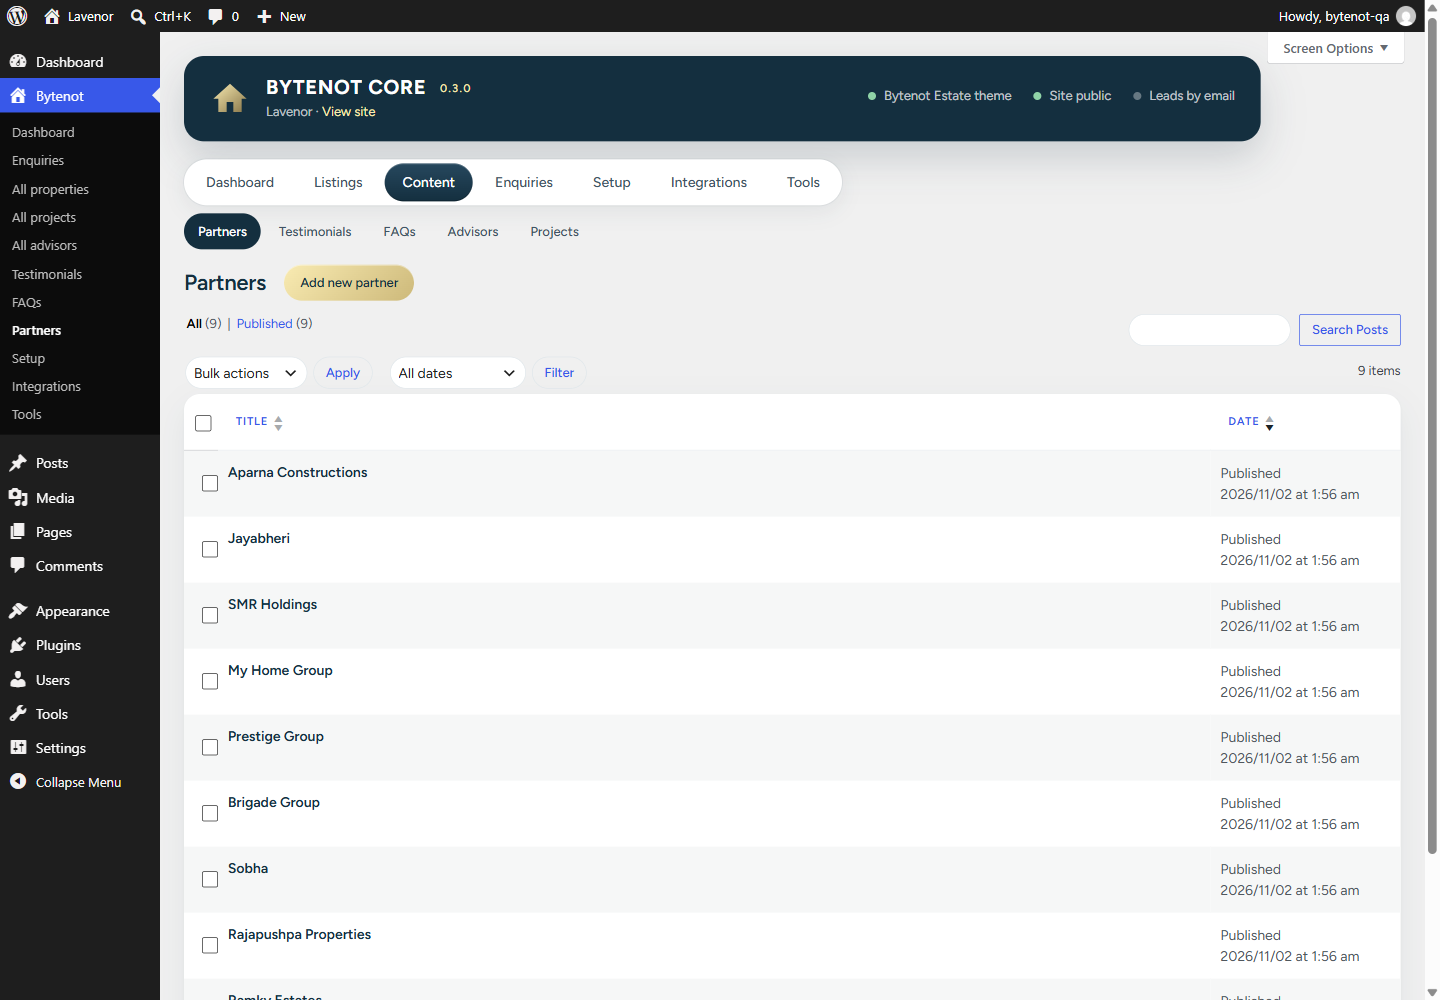
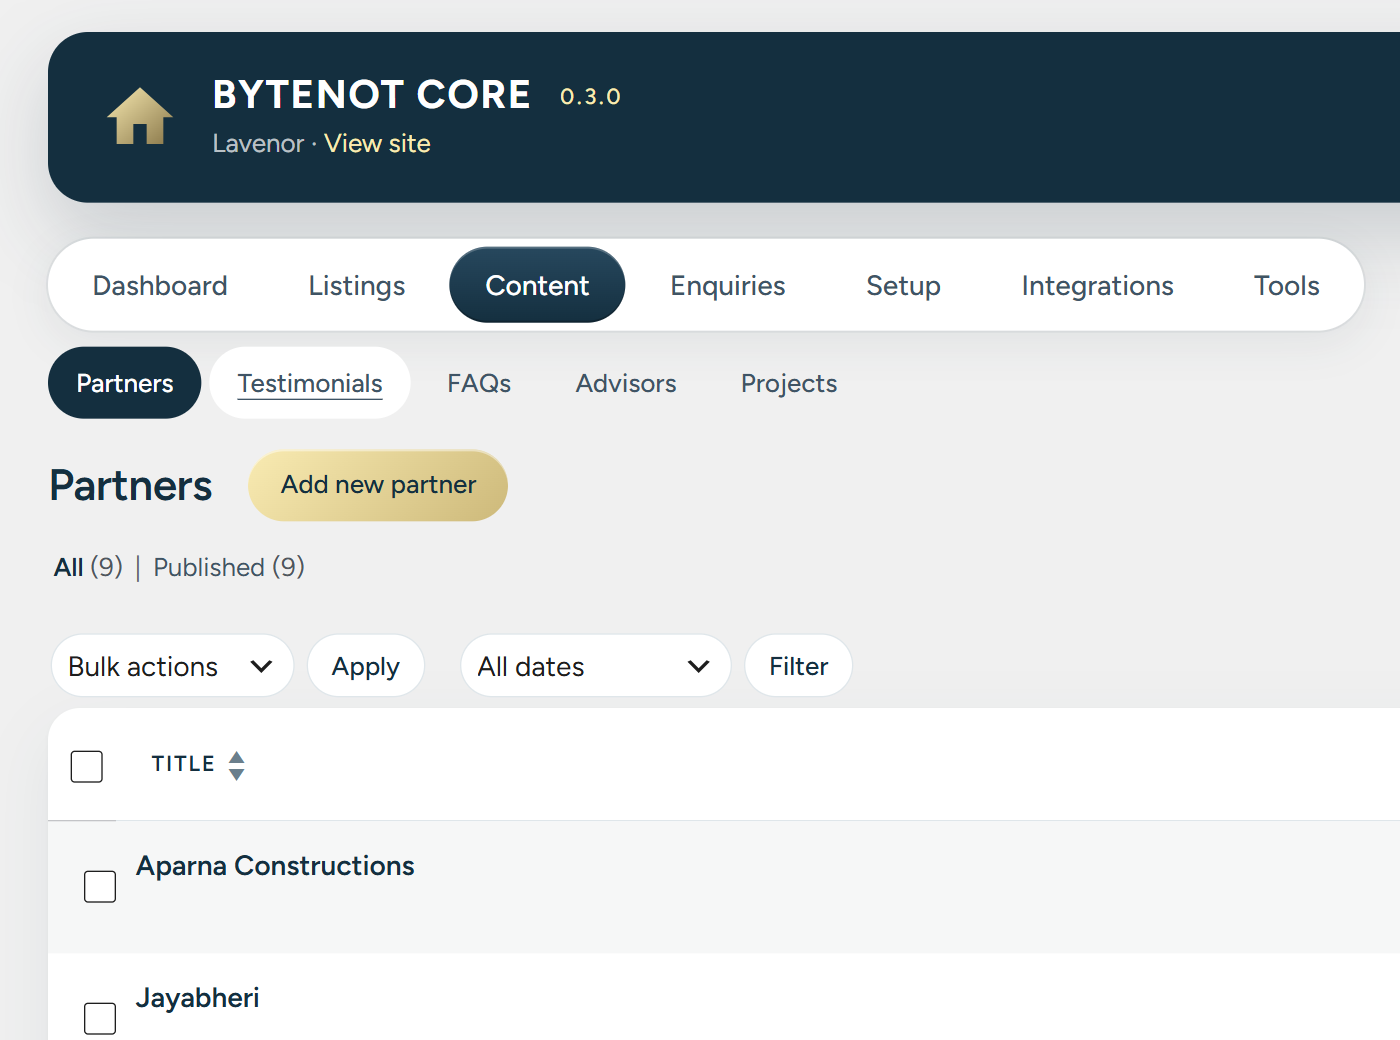
Bytenot admin: no focus ring on mouse clicks, navy instead of WordPress blue inside the plugin's screens

diff --git a/plugin/bytenot-core/assets/admin/admin.css b/plugin/bytenot-core/assets/admin/admin.css
@@ -217,3 +217,27 @@
 .bn-list-screen .tablenav { font-family: "Figtree", system-ui, sans-serif; }
 .bn-list-screen .tablenav .button, .bn-list-screen .tablenav select { border-radius: 999px; border-color: #dfe6ea; font-family: inherit; }
 .bn-list-screen .search-box input[type="search"] { border-radius: 999px; border-color: #dfe6ea; font-family: inherit; }
+
+/* ---------- no WordPress blue inside the plugin's screens ---------- */
+/* focus: nothing on mouse clicks, a navy ring for keyboard users */
+.bn a:focus, .bn button:focus, .bn input:focus, .bn select:focus, .bn textarea:focus,
+.bn-list-screen .wrap a:focus, .bn-list-screen .wrap button:focus, .bn-list-screen .wrap input:focus, .bn-list-screen .wrap select:focus { outline: none; box-shadow: none; }
+.bn a:focus-visible, .bn button:focus-visible, .bn-list-screen .wrap a:focus-visible, .bn-list-screen .wrap button:focus-visible { outline: 2px solid var(--navy, #142f3f); outline-offset: 2px; }
+.bn .bn-input:focus-visible, .bn-list-screen .wrap input:focus-visible, .bn-list-screen .wrap select:focus-visible { border-color: #142f3f; box-shadow: 0 0 0 3px rgba(20, 47, 63, .1); }
+/* links, buttons, checkboxes, sort arrows on the list screens */
+.bn-list-screen .wrap a { color: #142f3f; }
+.bn-list-screen .wrap .subsubsub a { color: #3f5465; }
+.bn-list-screen .wrap .subsubsub .current { color: #142f3f; font-weight: 600; }
+.bn-list-screen .wrap .row-actions a { color: #6b7f8c; }
+.bn-list-screen .wrap .row-actions a:hover { color: #142f3f; }
+.bn-list-screen .wrap .row-actions .trash a, .bn-list-screen .wrap .row-actions .delete a { color: #8f1f27; }
+.bn-list-screen .wrap .button, .bn-list-screen .wrap .button-secondary { color: #142f3f; border-color: #dfe6ea; background: #fff; box-shadow: none; }
+.bn-list-screen .wrap .button:hover { border-color: #142f3f; color: #142f3f; background: #fff; }
+.bn-list-screen .wrap .button-primary, .bn-list-screen .wrap .button-primary:hover { background: #142f3f; border-color: #142f3f; color: #fff; }
+.bn-list-screen .wrap input[type="checkbox"], .bn input[type="checkbox"], .bn input[type="radio"] { accent-color: #142f3f; }
+.bn-list-screen .wrap input[type="checkbox"]:checked::before { filter: grayscale(1) brightness(.35); }
+.bn-list-screen .wp-list-table thead .sorted a, .bn-list-screen .wp-list-table thead .sortable a, .bn-list-screen .wp-list-table thead a:hover { color: #142f3f; }
+.bn-list-screen .wp-list-table .sorting-indicators::before, .bn-list-screen .wp-list-table .sorting-indicator::before { color: #6b7f8c; }
+.bn-list-screen .wrap .displaying-num { color: #6b7f8c; }
+.bn-list-screen .wrap .tablenav-pages a, .bn-list-screen .wrap .tablenav-pages .tablenav-pages-navspan { border-radius: 999px; border-color: #dfe6ea; color: #142f3f; background: #fff; }
+.bn-list-screen .wrap .tablenav-pages a:hover { border-color: #142f3f; background: #fff; color: #142f3f; }
